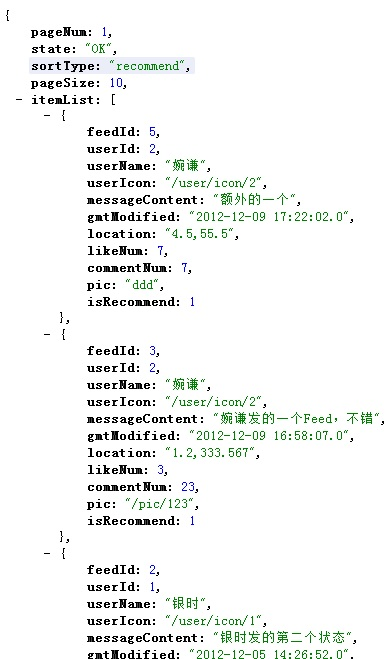
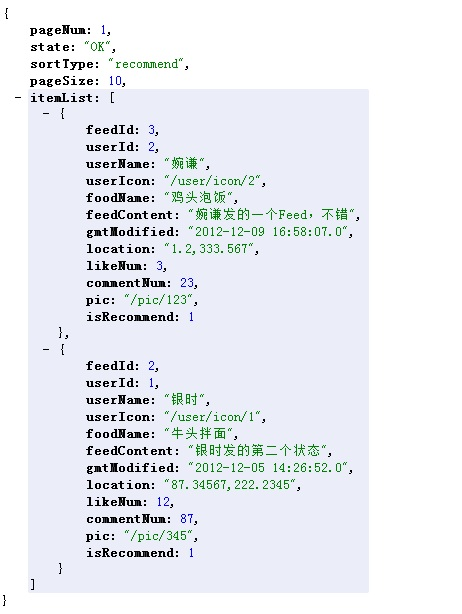
添加菜名，message_content->feed_content

diff --git a/tasty-common/src/main/java/com/taobao/tasty/common/constant/SqlTemplate.java b/tasty-common/src/main/java/com/taobao/tasty/common/constant/SqlTemplate.java
@@ -13,7 +13,8 @@ public class SqlTemplate {
 	public static final String QUERY_MESSAGE_LASTED 				= "SELECT f.feed_id," +
 																													"f.user_id," +
 																													"um.user_name," +
-																													"f.message_content," +
+																													"f.food_name," +
+																													"f.feed_content," +
 																													"f.gmt_modified," +
 																													"f.location," +
 																													"f.like_num," +
@@ -29,7 +30,8 @@ public class SqlTemplate {
 	public static final String QUERY_FEED_BY_FEED_ID					= "SELECT f.feed_id," +
 																													"f.user_id," +
 																													"um.user_name," +
-																													"f.message_content," +
+																													"f.food_name," +
+																													"f.feed_content," +
 																													"f.gmt_modified," +
 																													"f.location," +
 																													"f.like_num," +
@@ -43,7 +45,8 @@ public class SqlTemplate {
 	public static final String QUERY_MESSAGE_RECOMMEND		= "SELECT f.feed_id," +
 																													"f.user_id," +
 																													"um.user_name," +
-																													"f.message_content," +
+																													"f.food_name," +
+																													"f.feed_content," +
 																													"f.gmt_modified," +
 																													"f.location," +
 																													"f.like_num," +

diff --git a/tasty-common/src/main/java/com/taobao/tasty/common/model/Feed.java b/tasty-common/src/main/java/com/taobao/tasty/common/model/Feed.java
@@ -3,6 +3,7 @@ package com.taobao.tasty.common.model;
 /**
  *  Feed实体
  * @author nileader/nileader@gmail.com
+ * @date 2012-12-22
  */
 public class Feed {
 
@@ -23,12 +24,6 @@ public class Feed {
 	}
 	public void setUserName( String userName ) {
 		this.userName = userName;
-	}
-	public String getMessageContent() {
-		return messageContent;
-	}
-	public void setMessageContent( String messageContent ) {
-		this.messageContent = messageContent;
 	}
 	public String getGmtCreate() {
 		return gmtCreate;
@@ -57,6 +52,18 @@ public class Feed {
 	public int getCommentNum() {
 		return commentNum;
 	}
+	public String getFoodName() {
+		return foodName;
+	}
+	public void setFoodName( String foodName ) {
+		this.foodName = foodName;
+	}
+	public String getFeedContent() {
+		return feedContent;
+	}
+	public void setFeedContent( String feedContent ) {
+		this.feedContent = feedContent;
+	}
 	public void setCommentNum( int commentNum ) {
 		this.commentNum = commentNum;
 	}
@@ -84,7 +91,8 @@ public class Feed {
 	private int userId;
 	private String userName;
 	private String userIcon;
-	private String messageContent;
+	private String foodName;
+	private String feedContent;
 	private String gmtCreate;
 	private String gmtModified;
 	private String location;

diff --git a/tasty-manager/src/main/java/com/taobao/tasty/manager/FeedManager.java b/tasty-manager/src/main/java/com/taobao/tasty/manager/FeedManager.java
@@ -153,7 +153,8 @@ public class FeedManager {
 			feed.setUserId( rs.getInt( "f.user_id" ) );
 			feed.setUserName( rs.getString( "um.user_name" ) );
 			feed.setUserIcon( "/user/icon/" + feed.getUserId() );
-			feed.setMessageContent( rs.getString( "f.message_content" ) );
+			feed.setFoodName( rs.getString( "f.food_name" ) );
+			feed.setFeedContent( rs.getString( "f.feed_content" ) );
 			feed.setGmtModified( rs.getString( "gmt_modified" ) );
 			feed.setLocation( rs.getString( "f.location" ) );
 			feed.setLikeNum( rs.getInt( "f.like_num" ) );
